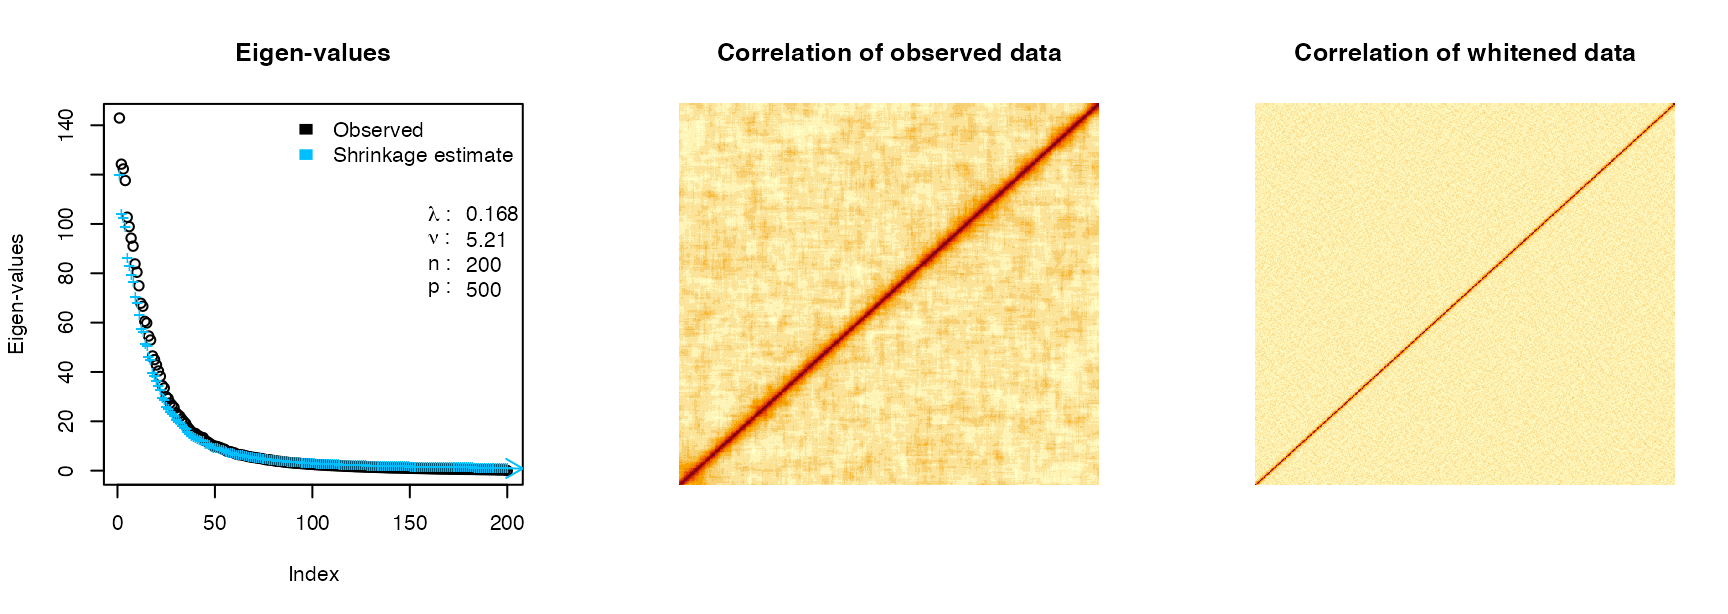
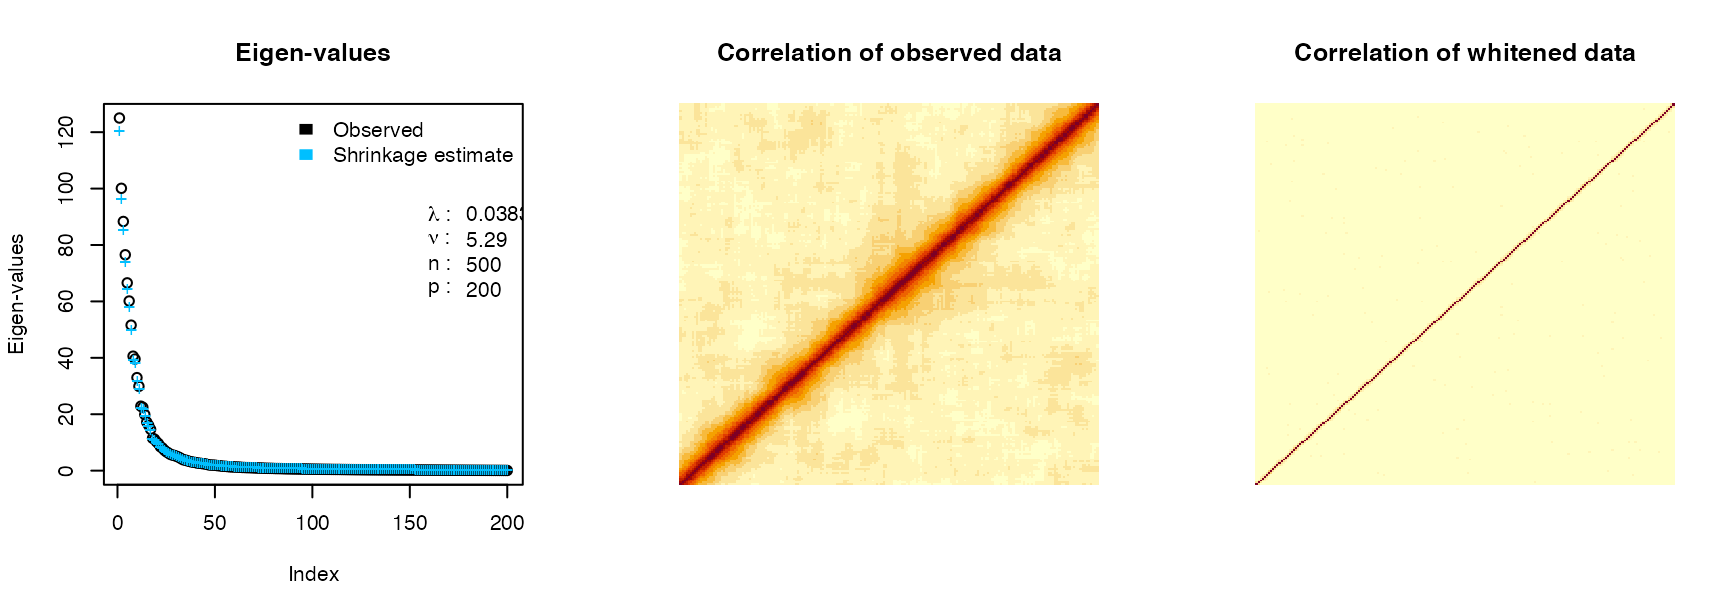
update vignette

diff --git a/docs/articles/decorrelate.html b/docs/articles/decorrelate.html
@@ -77,7 +77,7 @@
                         <h4 class="author">Developed by <a href="http://gabrielhoffman.github.io/">Gabriel Hoffman</a>
 </h4>
             
-            <h4 class="date">Run on 2021-12-09 14:35:20</h4>
+            <h4 class="date">Run on 2021-12-09 14:46:46</h4>
       
       <small class="dont-index">Source: <a href="https://github.com/GabrielHoffman/decorrelate/blob/master/vignettes/decorrelate.Rmd"><code>vignettes/decorrelate.Rmd</code></a></small>
       <div class="hidden name"><code>decorrelate.Rmd</code></div>
@@ -94,7 +94,7 @@ rmarkdown::render("decorrelate.Rmd");
 <p>Data whitening is a widely used preprocessing step to remove correlation structure since statistical models often assume independence <a href="https://doi.org/10.1080/00031305.2016.1277159">(Kessy, et al. 2017)</a>. The typical procedures transforms the observed data by an inverse square root of the sample correlation matrix (<strong>Figure 1</strong>). For low dimension data (i.e. <span class="math inline">\(n &gt; p\)</span>), this transformation produces transformed data with an identity sample covariance matrix. This procedure assumes either that the true covariance matrix is know, or is well estimated by the sample covariance matrix. Yet the use of the sample covariance matrix for this transformation can be problematic since <strong>1)</strong> the complexity is <span class="math inline">\(\mathcal{O}(p^3)\)</span> and <strong>2)</strong> it is not applicable to the high dimensional (i.e. <span class="math inline">\(n \ll p\)</span>) case since the sample covariance matrix is no longer full rank.</p>
 <p>Here we use a probabilistic model of the observed data to apply a whitening transformation. Our Gaussian Inverse Wishart Empirical Bayes (GIW-EB) <strong>1)</strong> model substantially reduces computational complexity, and <strong>2)</strong> regularizes the eigen-values of the sample covariance matrix to improve out-of-sample performance.</p>
 <div class="figure">
-<img src="decorrelate_files/figure-html/run.examples-1.png" alt="**Figure 1: Intuition for data whitening transformation**. **A)** Original data, **B)** Data rotated along principal components, **C)** Data rotated and scaled, **D)** Data rotated, scaled and rotated back to original axes." width="960"><p class="caption">
+<img src="decorrelate_files/figure-html/run.examples-1.png" alt="**Figure 1: Intuition for data whitening transformation**. **A)** Original data, **B)** Data rotated along principal components, **C)** Data rotated and scaled, **D)** Data rotated, scaled and rotated back to original axes." width="864"><p class="caption">
 <strong>Figure 1: Intuition for data whitening transformation</strong>. <strong>A)</strong> Original data, <strong>B)</strong> Data rotated along principal components, <strong>C)</strong> Data rotated and scaled, <strong>D)</strong> Data rotated, scaled and rotated back to original axes.
 </p>
 </div>
@@ -105,8 +105,8 @@ rmarkdown::render("decorrelate.Rmd");
 <code class="sourceCode R"><span class="kw"><a href="https://rdrr.io/r/base/library.html">library</a></span><span class="op">(</span><span class="va"><a href="https://github.com/GabrielHoffman/decorrelate">decorrelate</a></span><span class="op">)</span>
 <span class="kw"><a href="https://rdrr.io/r/base/library.html">library</a></span><span class="op">(</span><span class="va"><a href="http://mvtnorm.R-forge.R-project.org">mvtnorm</a></span><span class="op">)</span>
 
-<span class="va">n</span> <span class="op">=</span> <span class="fl">200</span>  <span class="co"># number of samples</span>
-<span class="va">p</span> <span class="op">=</span> <span class="fl">500</span>  <span class="co"># number of features</span>
+<span class="va">n</span> <span class="op">=</span> <span class="fl">500</span>  <span class="co"># number of samples</span>
+<span class="va">p</span> <span class="op">=</span> <span class="fl">200</span>  <span class="co"># number of features</span>
 
 <span class="co"># create correlation matrix</span>
 <span class="va">Sigma</span> <span class="op">=</span> <span class="fu"><a href="../reference/autocorr.mat.html">autocorr.mat</a></span><span class="op">(</span><span class="va">p</span>, <span class="fl">0.9</span><span class="op">)</span>
@@ -156,7 +156,7 @@ rmarkdown::render("decorrelate.Rmd");
 
 <span class="co"># evalute difference between whitened computed 2 ways</span>
 <span class="fu"><a href="https://rdrr.io/r/base/Extremes.html">max</a></span><span class="op">(</span><span class="fu"><a href="https://rdrr.io/r/base/MathFun.html">abs</a></span><span class="op">(</span><span class="va">Z</span> <span class="op">-</span> <span class="va">Y_whitened</span><span class="op">)</span><span class="op">)</span></code></pre></div>
-<pre><code>## [1] 1.265654e-14</code></pre>
+<pre><code>## [1] 2.153833e-14</code></pre>
 <p>The difference between function is due only to machine precision.</p>
 </div>
 <div id="explicit-covariance-or-correlation-matrix" class="section level2">
@@ -209,7 +209,7 @@ rmarkdown::render("decorrelate.Rmd");
 
 <span class="co"># examine variances of the first 5 variables</span>
 <span class="fu"><a href="https://rdrr.io/r/base/apply.html">apply</a></span><span class="op">(</span><span class="va">Y</span>, <span class="fl">2</span>, <span class="va">var</span><span class="op">)</span><span class="op">[</span><span class="fl">1</span><span class="op">:</span><span class="fl">5</span><span class="op">]</span></code></pre></div>
-<pre><code>## [1] 5.556913 4.105947 3.390443 7.098585 2.976348</code></pre>
+<pre><code>## [1] 5.383555 2.889871 1.044287 3.873412 1.393928</code></pre>
 <div class="sourceCode" id="cb10"><pre class="downlit sourceCode r">
 <code class="sourceCode R"><span class="co"># transform removes covariance between columns so variance of transformed</span>
 <span class="co"># features are *approximately* equal</span>
@@ -218,7 +218,7 @@ rmarkdown::render("decorrelate.Rmd");
 
 <span class="co"># variance are *approximately* equal</span>
 <span class="fu"><a href="https://rdrr.io/r/base/apply.html">apply</a></span><span class="op">(</span><span class="va">Z1</span>, <span class="fl">2</span>, <span class="va">var</span><span class="op">)</span><span class="op">[</span><span class="fl">1</span><span class="op">:</span><span class="fl">5</span><span class="op">]</span></code></pre></div>
-<pre><code>## [1] 0.8290132 0.7070564 0.6121022 1.0448990 0.5490428</code></pre>
+<pre><code>## [1] 0.8936254 0.7003432 0.3485305 0.8255365 0.4277328</code></pre>
 <div class="sourceCode" id="cb12"><pre class="downlit sourceCode r">
 <code class="sourceCode R"><span class="co"># transform removes **correlation** between columns but variables are not</span>
 <span class="co"># scaled</span>
@@ -227,7 +227,7 @@ rmarkdown::render("decorrelate.Rmd");
 
 <span class="co"># variances are not standardized</span>
 <span class="fu"><a href="https://rdrr.io/r/base/apply.html">apply</a></span><span class="op">(</span><span class="va">Z2</span>, <span class="fl">2</span>, <span class="va">var</span><span class="op">)</span><span class="op">[</span><span class="fl">1</span><span class="op">:</span><span class="fl">5</span><span class="op">]</span></code></pre></div>
-<pre><code>## [1] 5.493820 4.073570 3.361542 7.057250 2.948771</code></pre>
+<pre><code>## [1] 5.338501 2.876451 1.036761 3.858496 1.383403</code></pre>
 </div>
 </div>
   </div>
